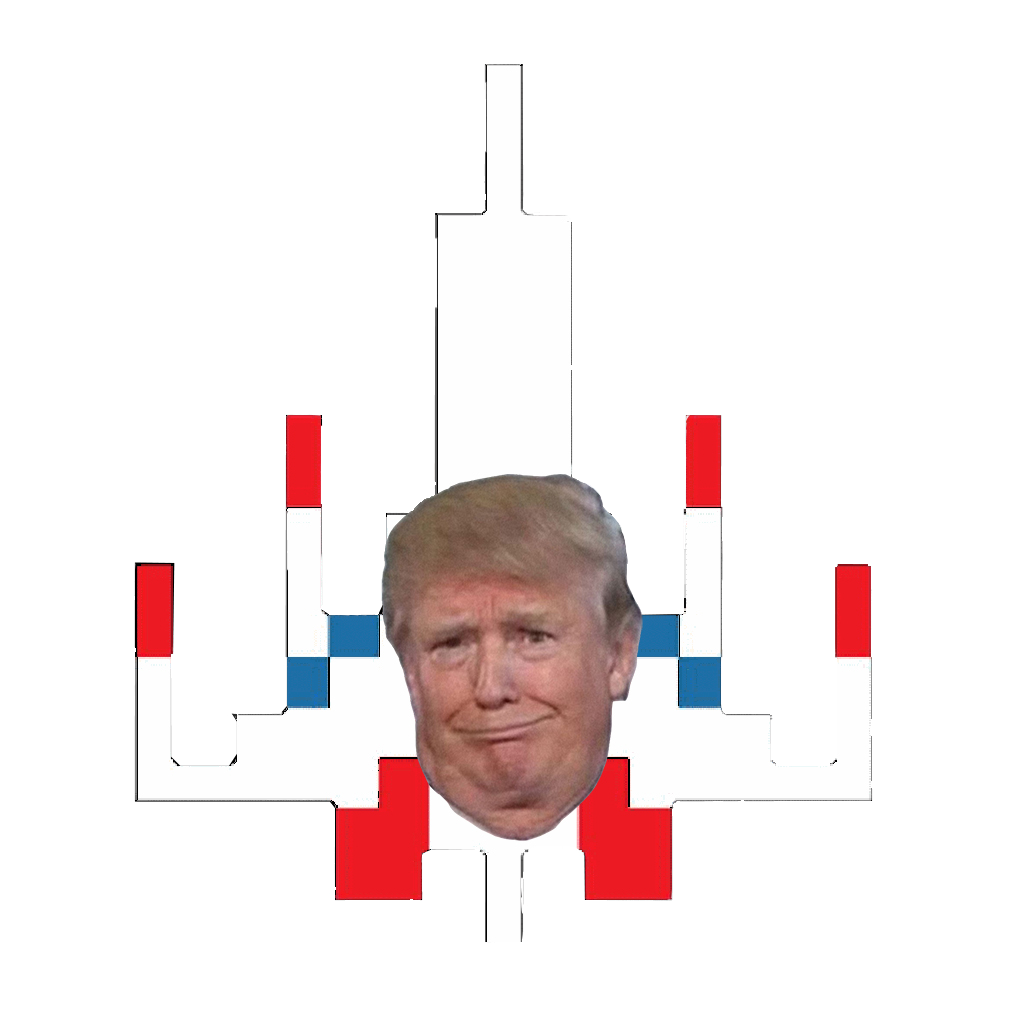
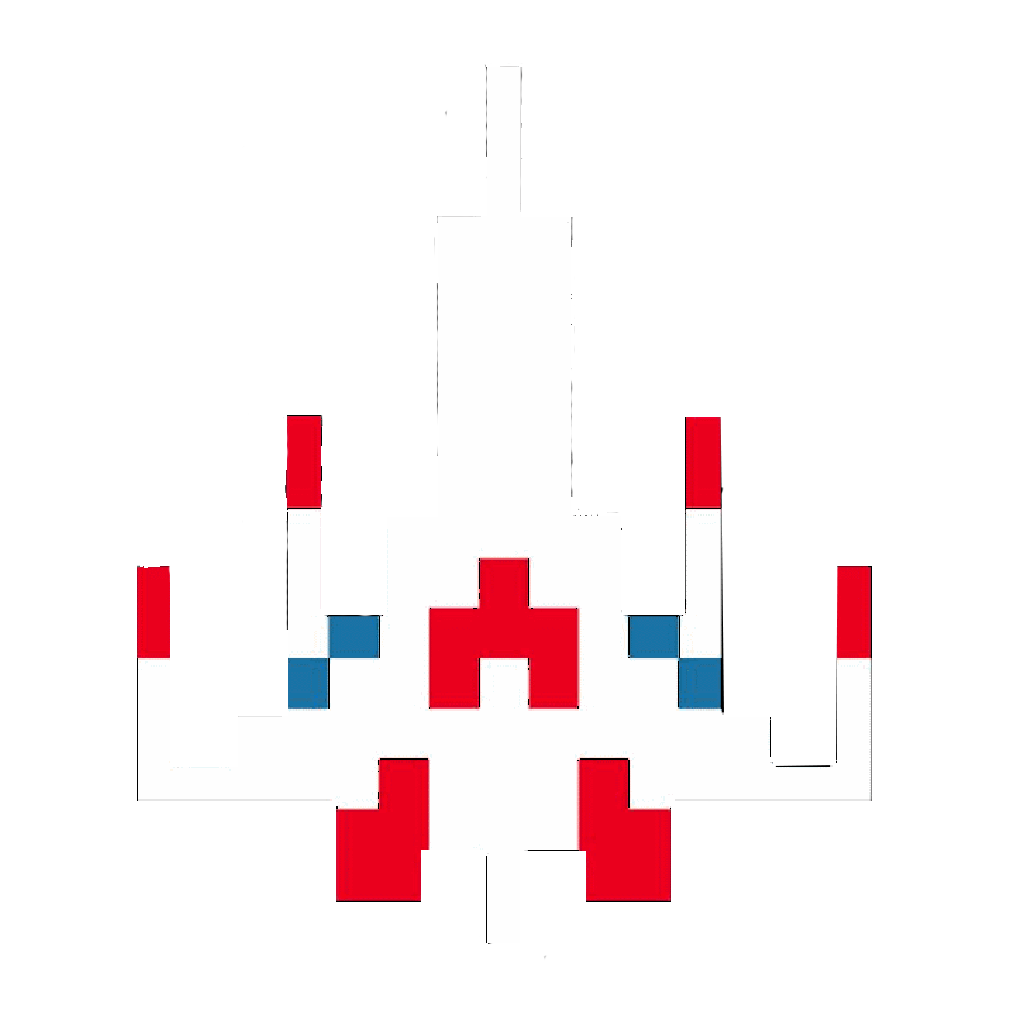
started changing sprites

diff --git a/WpfApplication2/Views/MainWindow.xaml.cs b/WpfApplication2/Views/MainWindow.xaml.cs
@@ -205,8 +205,8 @@ namespace SpaceInvaders
               
             var FoeYSpacing = 0.0;
             var FoeXSpacing = 1.0;
-            var str = "Resources/hilaryclintonface.png," + "Resources/billclinton.png," + "Resources/obama.png";
-            var enemyNames = "Hilary,Bill,Obama";
+            var str = "Resources/alien1.png," + "Resources/alien2.png," + "Resources/alien3.png";
+            var enemyNames = "alien1,alien2,alien3";
             var PicturesArray = str.Split(',');
             var enemyNamesArray = enemyNames.Split(',');
             var health = 3;
@@ -361,11 +361,11 @@ namespace SpaceInvaders
         public void updateKillCount(String name)
         {
             var score = 0;
-            if (name.Equals("Hilary"))
+            if (name.Equals("alien1"))
                 score = 3 * difficulty;
-            else if (name.Equals("Bill"))
+            else if (name.Equals("alien2"))
                 score = 2 * difficulty;
-            else if (name.Equals("Obama"))
+            else if (name.Equals("alien3"))
                 score = 1 * difficulty;
             killCount += score;
             kills.Text = Convert.ToString(killCount);
@@ -640,7 +640,7 @@ namespace SpaceInvaders
             // List hold all the info needed to save
             List<String> state = new List<String>();
             // File to save the game info
-            String fileName = "gameState.txt";
+            String fileName = @"Files/gameState.txt";
             state.Add("count:" + enemies.Count);
             // Adds each enemies health, coordinates, dimensions and name to the list
             for (int i = 0; i < enemies.Count; i++)
@@ -699,9 +699,9 @@ namespace SpaceInvaders
                 }
                 loadEnemies = loadState[0].Split(':');
                 int size = int.Parse(loadEnemies[1]);
-                String hPath = "Resources/hilaryclintonface.png",
-                       bPath = "Resources/billclinton.png",
-                       oPath = "Resources/obama.png";
+                String hPath = "Resources/alien1.png",
+                       bPath = "Resources/alien2.png",
+                       oPath = "Resources/alien3.png";
                 for (int i = 1; i < index; i++)
                 {
                     // split the line by a delimiter 
@@ -716,9 +716,9 @@ namespace SpaceInvaders
                     foe.Health = double.Parse(loadEnemies[5]);
                     // depending on the name of the enemy, a different picture will be used
                     foe.Name = loadEnemies[6];
-                    if (foe.Name.Equals("Hilary"))
+                    if (foe.Name.Equals("alien1"))
                         foe.shape.Fill = new ImageBrush(new BitmapImage(new Uri(hPath, UriKind.Relative)));
-                    else if (foe.Name.Equals("Bill"))
+                    else if (foe.Name.Equals("alien2"))
                         foe.shape.Fill = new ImageBrush(new BitmapImage(new Uri(bPath, UriKind.Relative)));
                     else
                         foe.shape.Fill = new ImageBrush(new BitmapImage(new Uri(oPath, UriKind.Relative)));

diff --git a/WpfApplication2/Views/GameOverWindow.xaml.cs b/WpfApplication2/Views/GameOverWindow.xaml.cs
@@ -25,7 +25,7 @@ namespace WpfApplication2.Views
         List<String> people = new List<string>();
         String playerName;
         String playerNameAndScore;
-        string filename = "leaderboards.txt";
+        string filename = @"Files/leaderboards.txt";
         int killCount;
         private StreamWriter fileWriter;
 
@@ -41,7 +41,7 @@ namespace WpfApplication2.Views
         private void enter(object sender, KeyEventArgs e)
         {
         
-            String filename = "leaderboards.txt";
+            String filename = @"Files/leaderboards.txt";
             
            
 

diff --git a/WpfApplication2/Views/Leaderboards.xaml.cs b/WpfApplication2/Views/Leaderboards.xaml.cs
@@ -31,7 +31,7 @@ namespace WpfApplication2.Views
         {
             InitializeComponent();
             var top15 = 15;
-            using (StreamReader inputfile = new StreamReader("leaderboards.txt"))
+            using (StreamReader inputfile = new StreamReader(filename))
             {
                 while (inputfile.Peek() >= 0)
                 {
